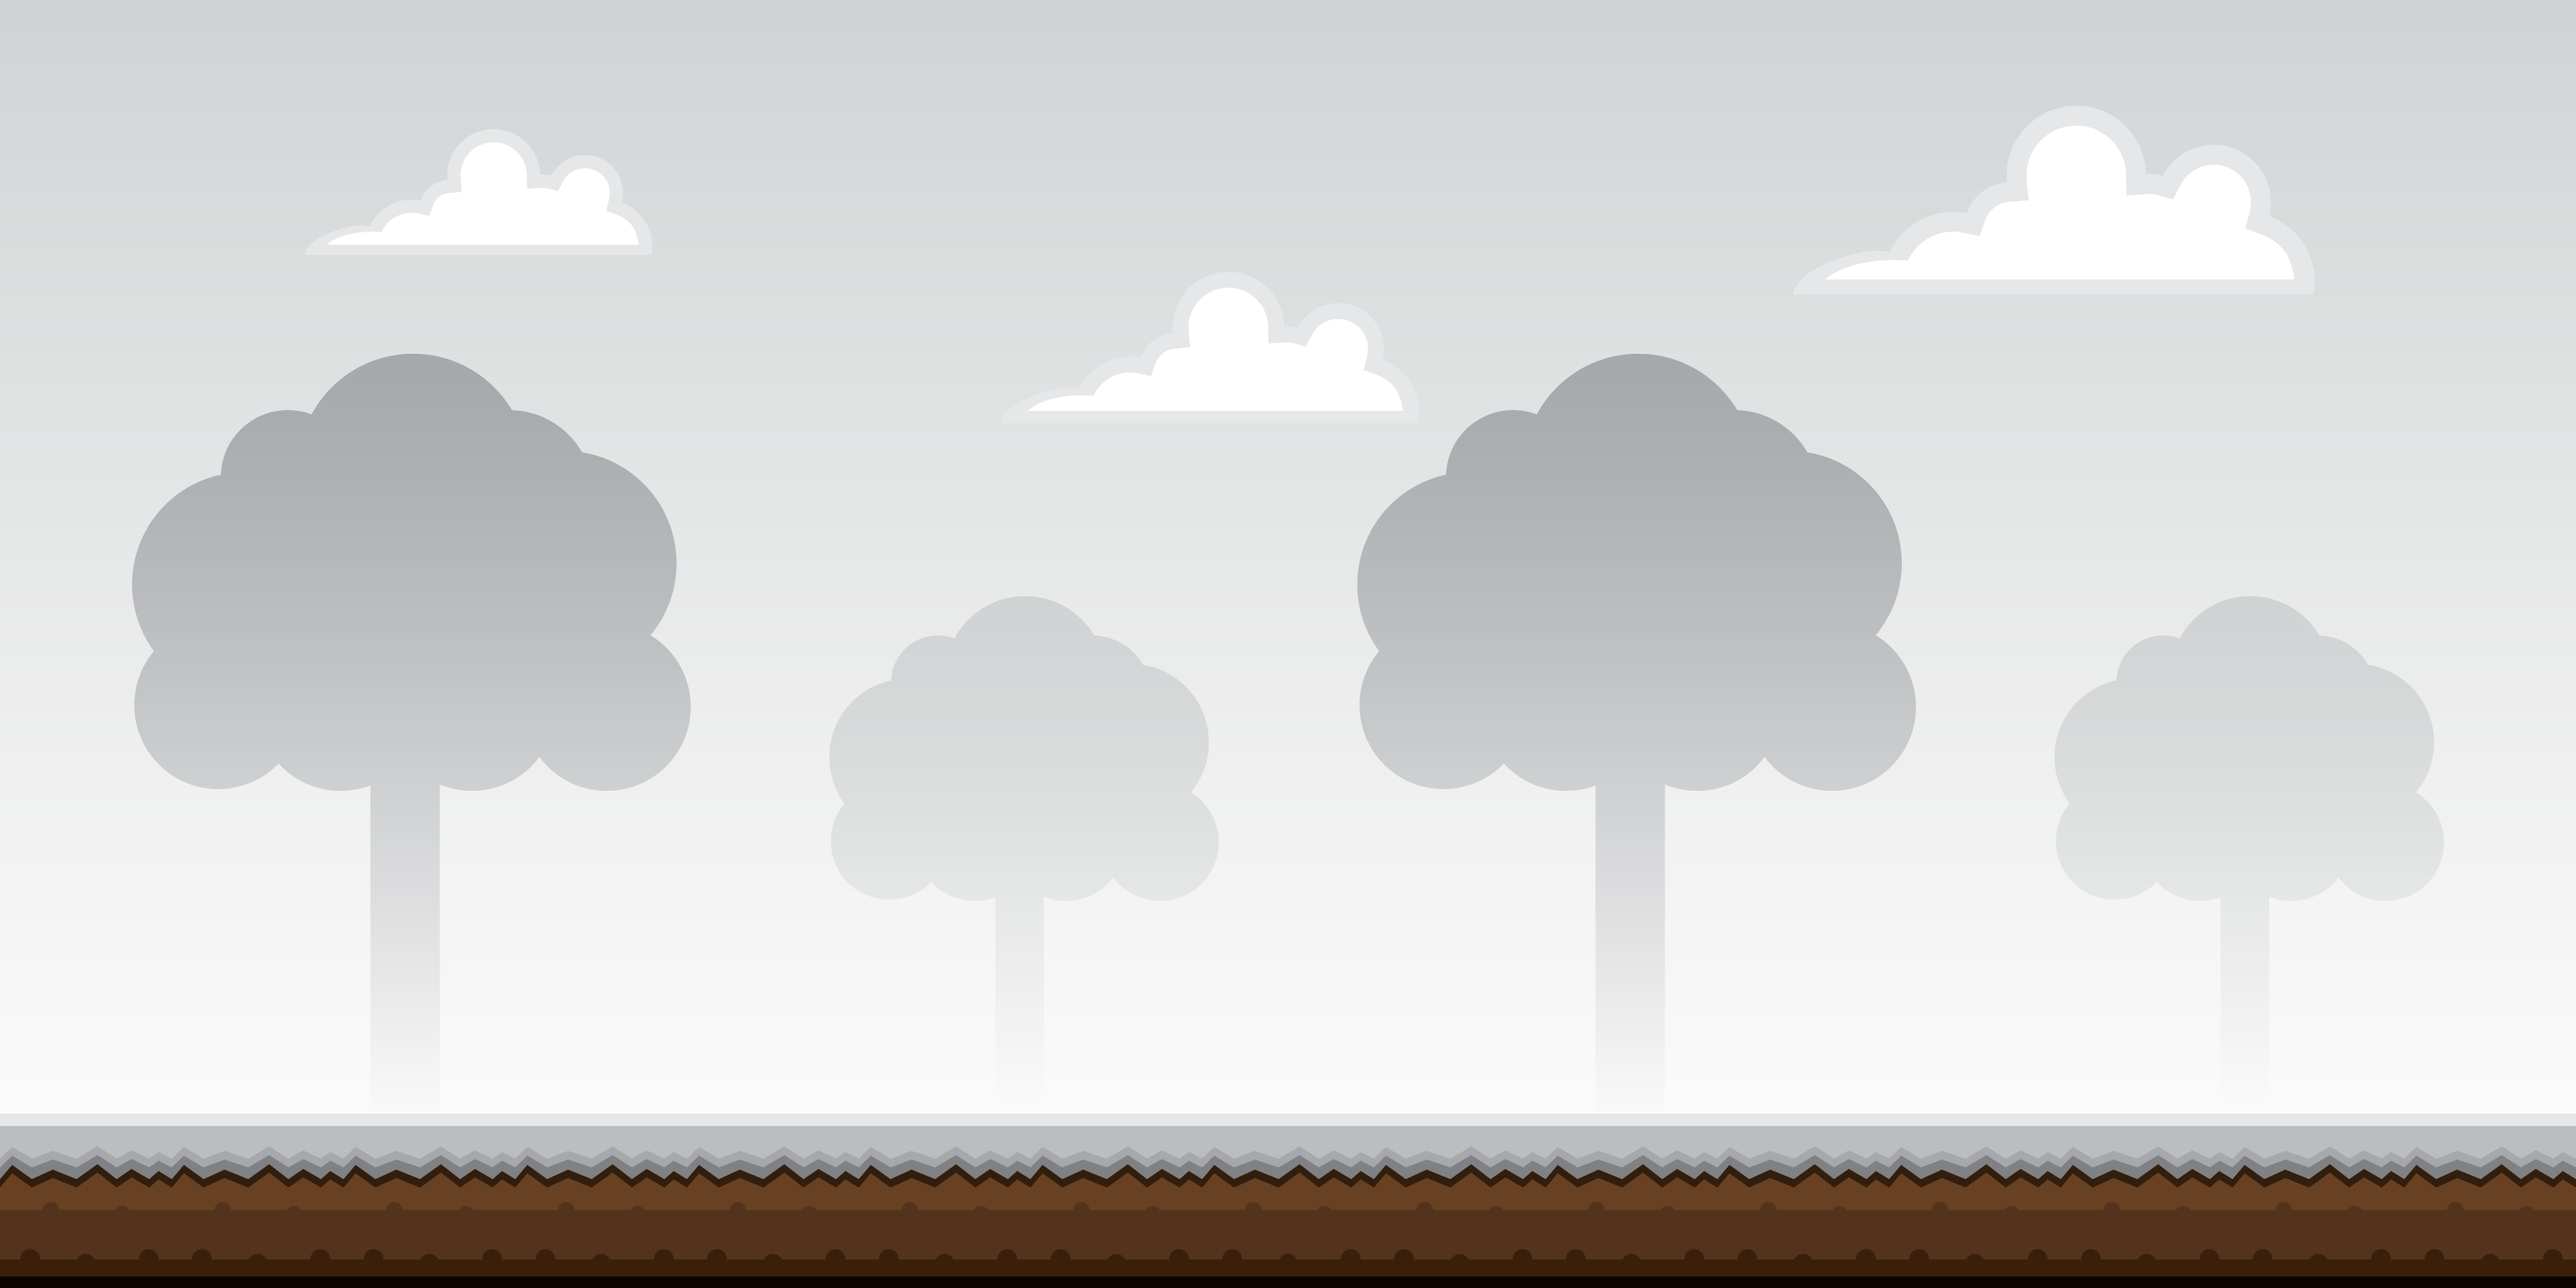
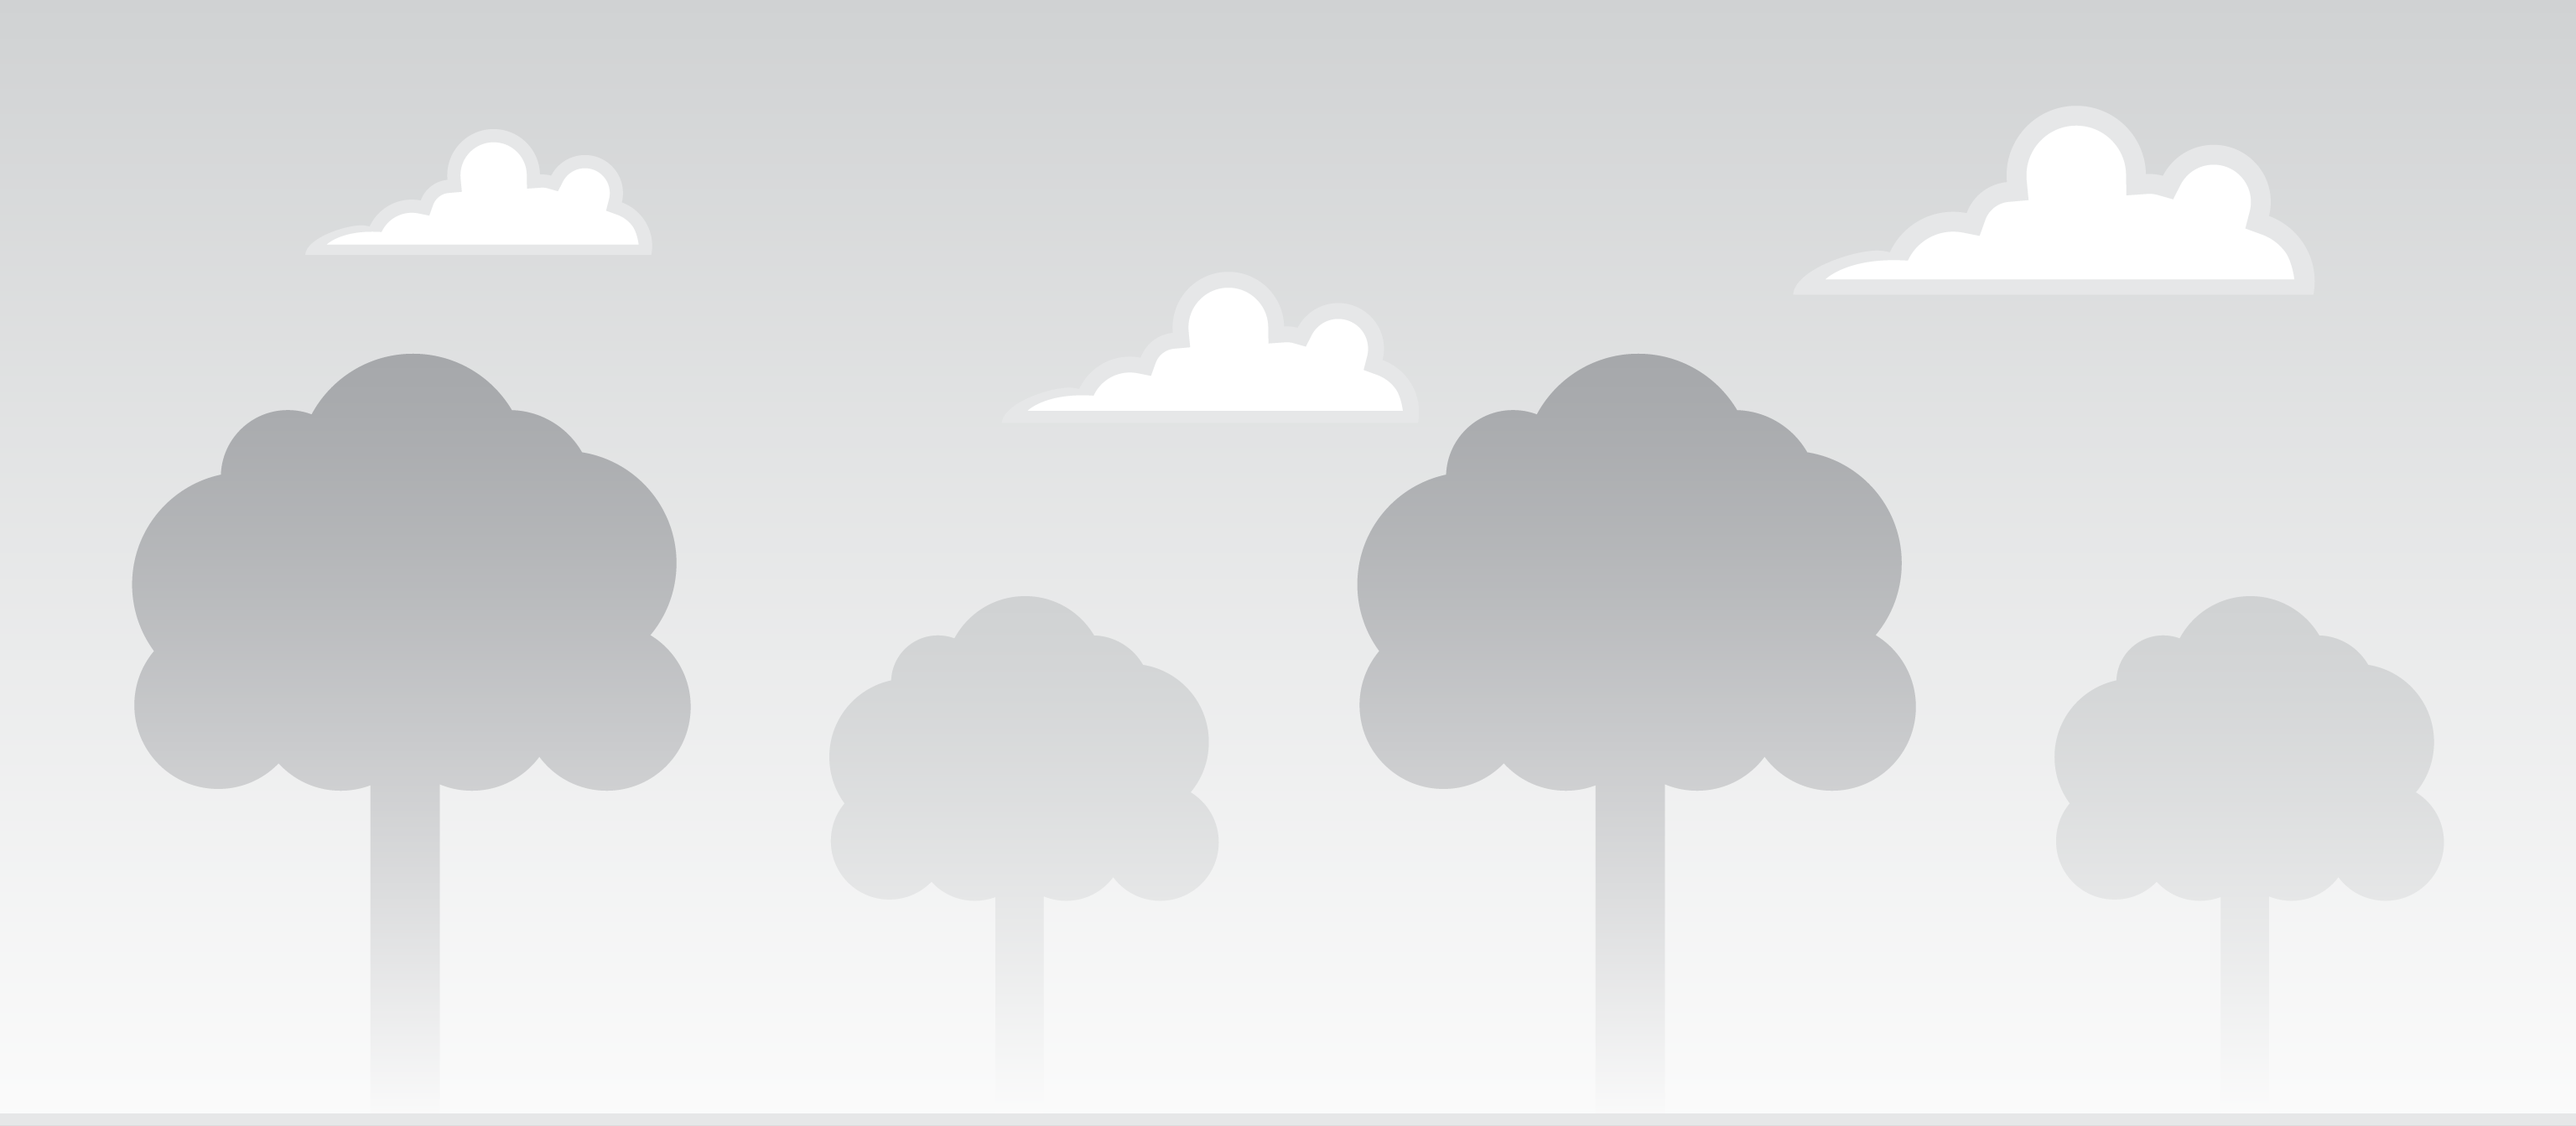
fix monster height bug

diff --git a/app/src/main/java/com/example/todolist/ui/screens/MiniGameScreen.kt b/app/src/main/java/com/example/todolist/ui/screens/MiniGameScreen.kt
@@ -23,6 +23,7 @@ import com.example.todolist.R
 import com.example.todolist.controller.MonsterManager
 import com.example.todolist.model.*
 import com.example.todolist.ui.components.*
+import com.example.todolist.utils.AssetLoader
 import kotlinx.coroutines.coroutineScope
 import kotlinx.coroutines.delay
 import kotlinx.coroutines.isActive
@@ -115,15 +116,12 @@ fun MiniGameScreen(
         }
     }
 
-    // Load background from assets
-    val backgroundBitmap = remember(level.currentLevel) {
-        try {
-            val assetPath = "backgrounds/${level.getBackgroundResourceName()}.png"
-            val inputStream = context.assets.open(assetPath)
-            BitmapFactory.decodeStream(inputStream)
-        } catch (e: Exception) {
-            null
-        }
+    // Load decor and ground from assets
+    val decorBitmap = remember(level.currentLevel) {
+        AssetLoader.loadBitmap(context, "backgrounds/${level.getDecorResourceName()}.png")
+    }
+    val groundBitmap = remember(level.currentLevel) {
+        AssetLoader.loadBitmap(context, "grounds/${level.getGroundResourceName()}.png")
     }
 
     val content = @Composable { padding: PaddingValues ->
@@ -134,63 +132,63 @@ fun MiniGameScreen(
                 .background(MaterialTheme.colorScheme.background)
         ) {
             Box(modifier = Modifier.weight(1f)) {
-                // Background Image - Aligned to bottom to keep the floor consistent
-                if (backgroundBitmap != null) {
-                    Image(
-                        bitmap = backgroundBitmap.asImageBitmap(),
-                        contentDescription = null,
-                        modifier = Modifier.fillMaxSize(),
-                        contentScale = ContentScale.Crop,
-                        alignment = Alignment.BottomCenter
-                    )
-                } else {
-                    val fallbackResId = context.resources.getIdentifier(
-                        level.getBackgroundResourceName(),
-                        "drawable",
-                        context.packageName
-                    )
-                    if (fallbackResId != 0) {
-                        Image(
-                            painter = painterResource(id = fallbackResId),
-                            contentDescription = null,
+                // Environment Layout
+                Column(modifier = Modifier.fillMaxSize()) {
+                    // 1. Decor Area (Background)
+                    Box(modifier = Modifier.weight(1f)) {
+                        decorBitmap?.let {
+                            Image(
+                                bitmap = it.asImageBitmap(),
+                                contentDescription = null,
+                                modifier = Modifier.fillMaxSize(),
+                                contentScale = ContentScale.Crop
+                            )
+                        }
+
+                        // Entities placed at the bottom of the decor area
+                        Box(
                             modifier = Modifier.fillMaxSize(),
-                            contentScale = ContentScale.Crop,
-                            alignment = Alignment.BottomCenter
-                        )
-                    }
-                }
+                            contentAlignment = Alignment.BottomCenter
+                        ) {
+                            // Monster - aligned to the bottom of the decor area (where ground starts)
+                            currentMonster?.let { m ->
+                                MonsterComponent(
+                                    monster = m,
+                                    currentFrameIndex = currentFrameIndex,
+                                    alpha = monsterAlpha.value,
+                                    scale = monsterScale.value,
+                                    modifier = Modifier
+                                        .align(Alignment.BottomCenter)
+                                        .offset(x = 60.dp)
+                                )
+                            }
 
-                // Game Scene
-                Box(
-                    modifier = Modifier.fillMaxSize()
-                ) {
-                    // Monster - Placed relative to the bottom
-                    currentMonster?.let { m ->
-                        MonsterComponent(
-                            monster = m,
-                            currentFrameIndex = currentFrameIndex,
-                            alpha = monsterAlpha.value,
-                            scale = monsterScale.value,
+                            // Sword
+                            SwordComponent(
+                                sword = swordShop.currentSword,
+                                rotation = swordRotation.value,
+                                translationY = swordTranslationY.value,
+                                scale = swordScale.value,
+                                modifier = Modifier
+                                    .align(Alignment.BottomStart)
+                                    .padding(start = 50.dp, bottom = 40.dp)
+                            )
+                        }
+                    }
+
+                    // 2. Ground Area (Below Decor)
+                    groundBitmap?.let {
+                        Image(
+                            bitmap = it.asImageBitmap(),
+                            contentDescription = null,
                             modifier = Modifier
-                                .align(Alignment.BottomCenter)
-                                // Adjusting Y to match the floor in cropped background
-                                .offset(x = 60.dp, y = (-64).dp)
+                                .fillMaxWidth(),
+                            contentScale = ContentScale.Crop
                         )
                     }
-
-                    // Sword - Aligned with the monster
-                    SwordComponent(
-                        sword = swordShop.currentSword,
-                        rotation = swordRotation.value,
-                        translationY = swordTranslationY.value,
-                        scale = swordScale.value,
-                        modifier = Modifier
-                            .align(Alignment.BottomStart)
-                            .padding(start = 50.dp, bottom = 100.dp)
-                    )
                 }
                 
-                // Top UI with Custom Progress Bars
+                // Top UI Overlay
                 Column(
                     modifier = Modifier
                         .align(Alignment.TopCenter)

diff --git a/app/src/main/java/com/example/todolist/model/Level.kt b/app/src/main/java/com/example/todolist/model/Level.kt
@@ -13,7 +13,8 @@ class Level(context: Context, initialLevel: Int = 1) {
     var currentXp by mutableIntStateOf(0)
         private set
 
-    private val levelBackgrounds = mutableMapOf<Int, String>()
+    private val levelDecors = mutableMapOf<Int, String>()
+    private val levelGrounds = mutableMapOf<Int, String>()
     private val levelMaxXp = mutableMapOf<Int, Int>()
 
     init {
@@ -24,17 +25,20 @@ class Level(context: Context, initialLevel: Int = 1) {
         val rows = CsvReader.readCsv(context, "levels.csv")
         if (rows.isEmpty()) {
             for (i in 1..9) {
-                levelBackgrounds[i] = "full_bg_$i"
+                levelDecors[i] = "full_bg_$i"
+                levelGrounds[i] = "ground$i"
                 levelMaxXp[i] = i * 1000
             }
         } else {
             rows.forEach { tokens ->
-                if (tokens.size >= 3) {
+                if (tokens.size >= 4) {
                     val levelNum = tokens[0].toIntOrNull()
-                    val imageName = tokens[1]
-                    val maxXp = tokens[2].toIntOrNull()
+                    val decorName = tokens[1]
+                    val groundName = tokens[2]
+                    val maxXp = tokens[3].toIntOrNull()
                     if (levelNum != null && maxXp != null) {
-                        levelBackgrounds[levelNum] = imageName
+                        levelDecors[levelNum] = decorName
+                        levelGrounds[levelNum] = groundName
                         levelMaxXp[levelNum] = maxXp
                     }
                 }
@@ -47,7 +51,7 @@ class Level(context: Context, initialLevel: Int = 1) {
         val maxXp = levelMaxXp[currentLevel] ?: return
         
         if (currentXp >= maxXp) {
-            if (levelBackgrounds.containsKey(currentLevel + 1)) {
+            if (levelDecors.containsKey(currentLevel + 1)) {
                 currentXp -= maxXp
                 currentLevel++
             } else {
@@ -60,7 +64,11 @@ class Level(context: Context, initialLevel: Int = 1) {
         return levelMaxXp[currentLevel] ?: 100
     }
 
-    fun getBackgroundResourceName(): String {
-        return levelBackgrounds[currentLevel] ?: "full_bg_1"
+    fun getDecorResourceName(): String {
+        return levelDecors[currentLevel] ?: "full_bg_1"
+    }
+
+    fun getGroundResourceName(): String {
+        return levelGrounds[currentLevel] ?: "ground1"
     }
 }
